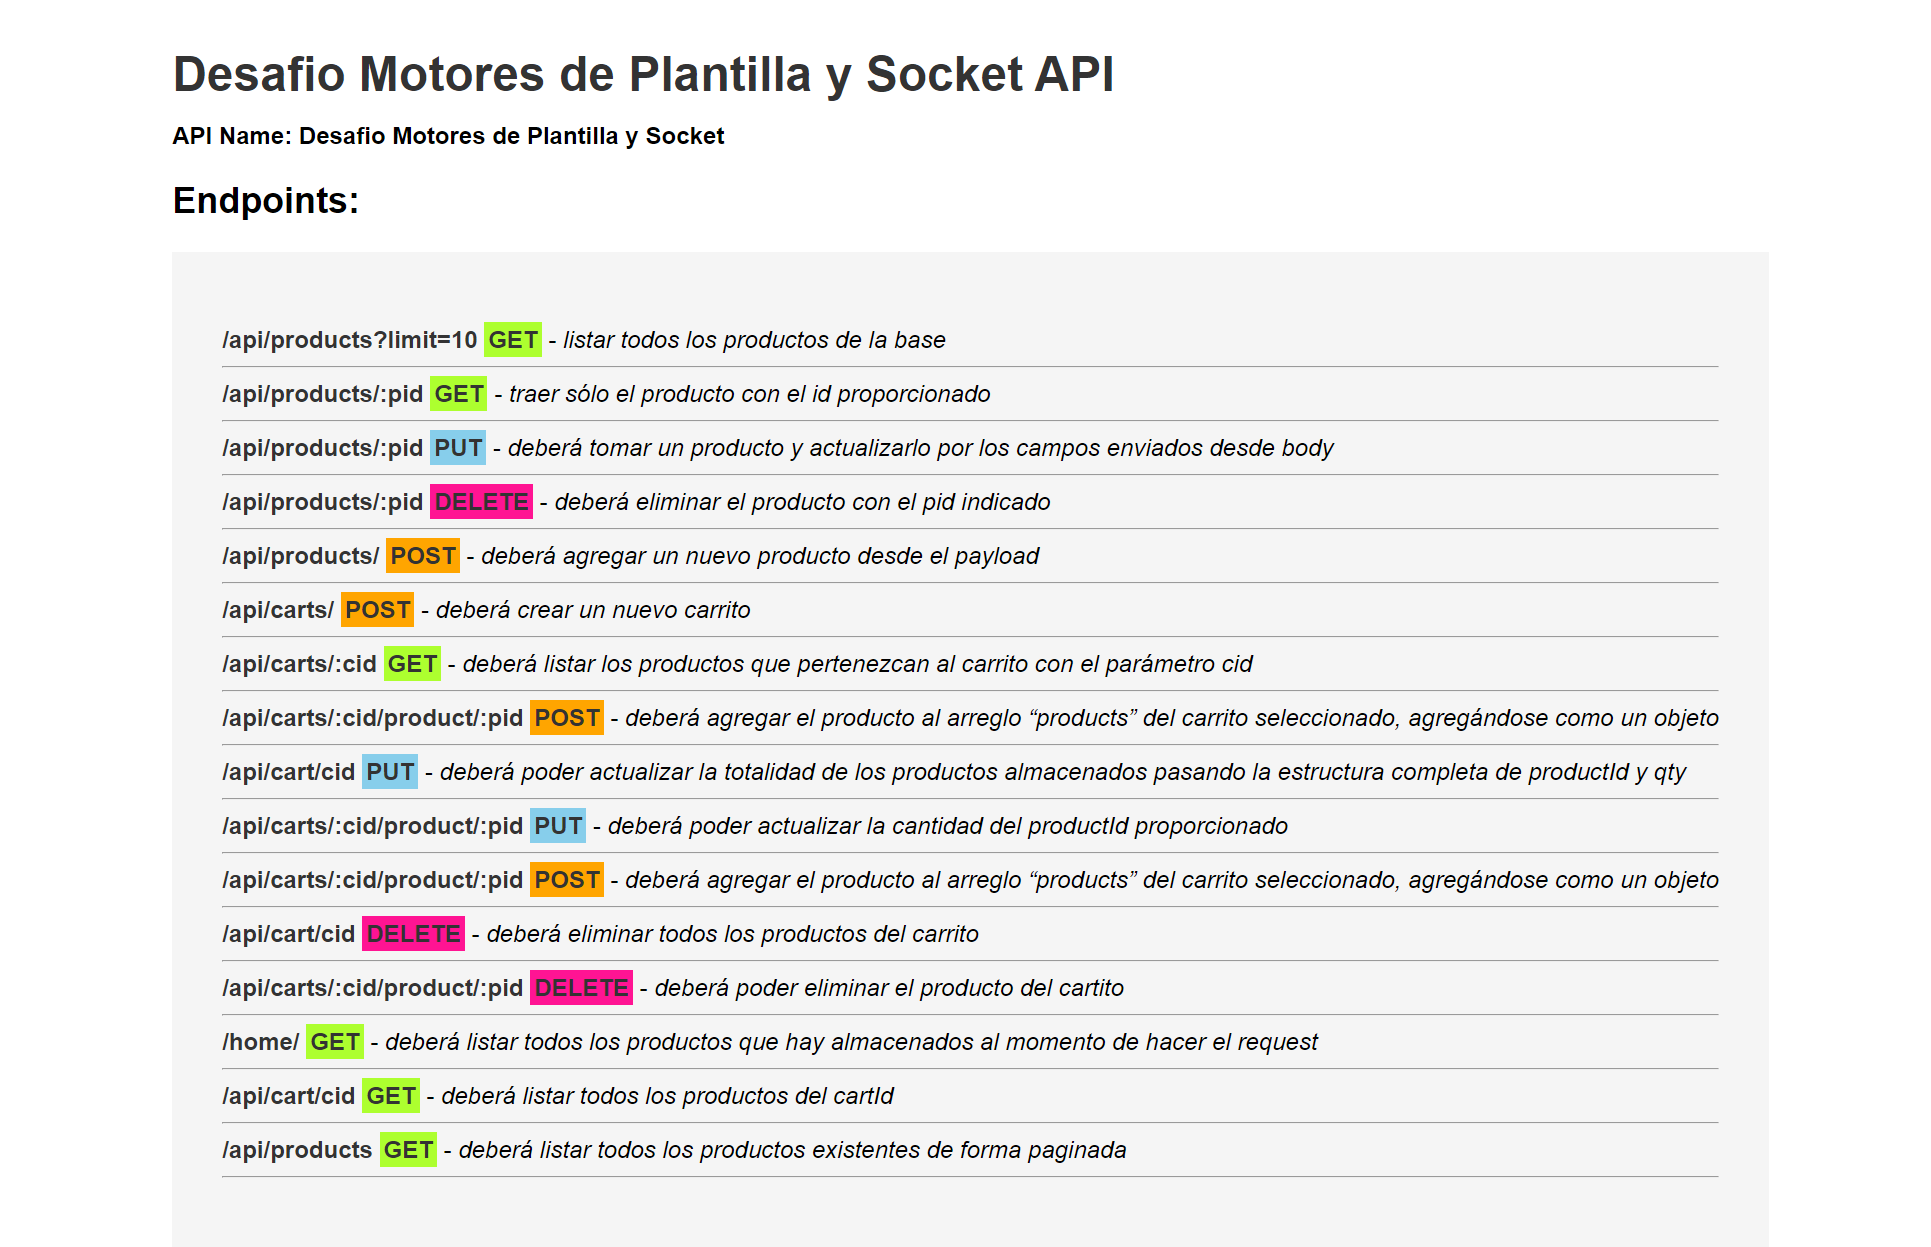
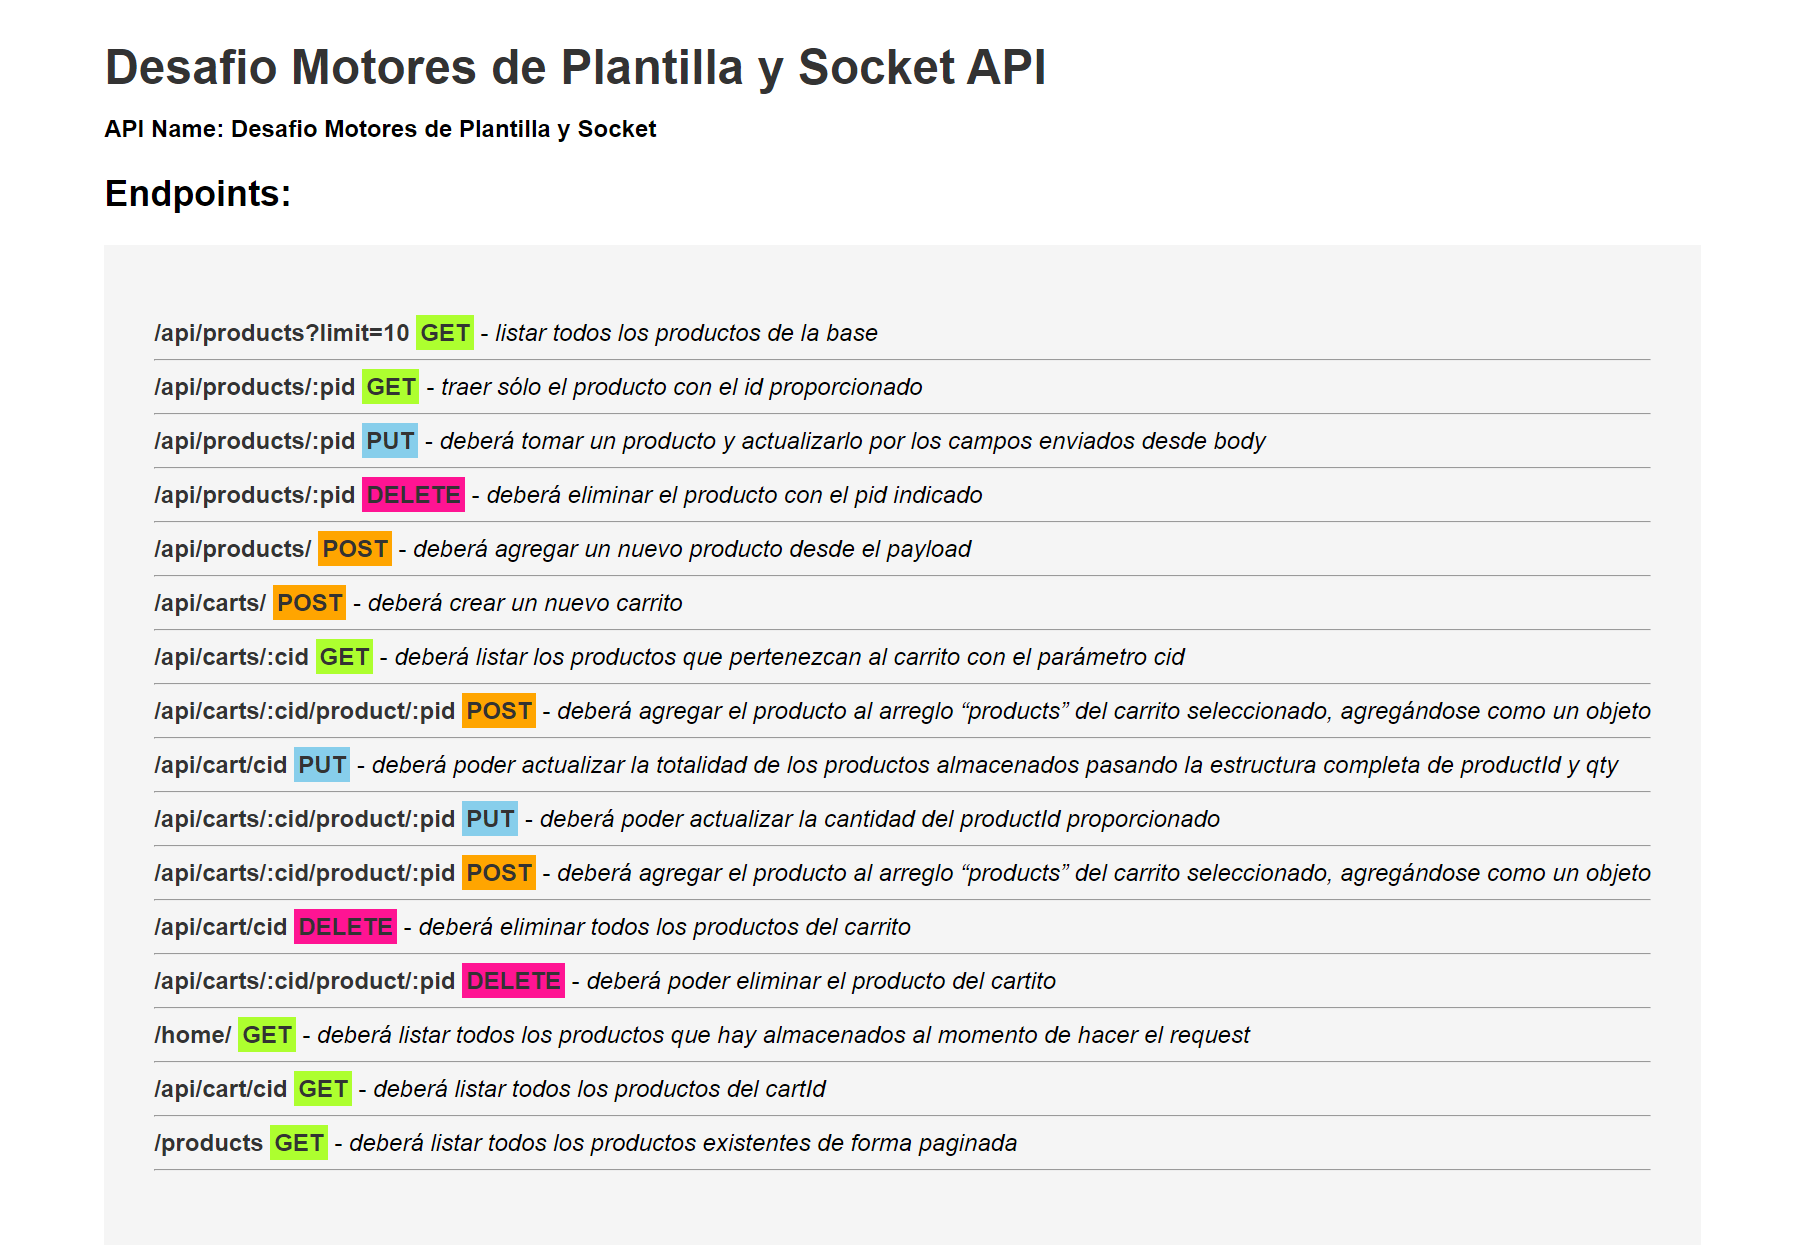
update

Changed region(s): [[0.0924, 0.2438, 0.9236, 0.9447], [0.0616, 0.0305, 0.5849, 0.1828]]

diff --git a/src/app.js b/src/app.js
@@ -64,7 +64,7 @@ app.get('/',  (req, res) => {
         //{ path: '/api/realtimeproducts/ ', verbo: 'GET',description: 'deberá listar en tiempo real los productos que hay disponibles, implementando socket, y renderizando con handlebars'},
         { path: '/home/ ', verbo: 'GET',description: 'deberá listar todos los productos que hay almacenados al momento de hacer el request'},
         { path: '/api/cart/cid ', verbo: 'GET',description: 'deberá listar todos los productos del cartId'},
-        { path: '/api/products ', verbo: 'GET',description: 'deberá listar todos los productos existentes de forma paginada'}
+        { path: '/products ', verbo: 'GET',description: 'deberá listar todos los productos existentes de forma paginada'}
     ];
 
     res.render('api', {
